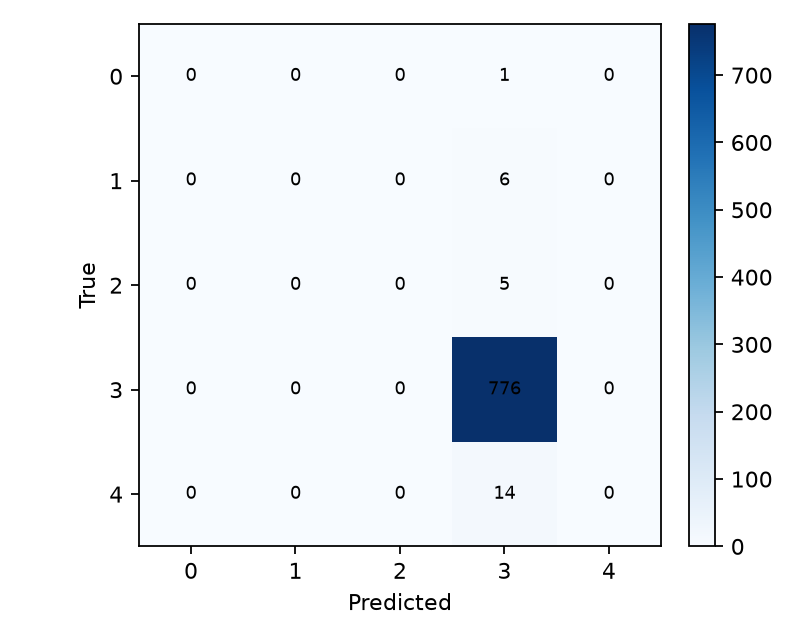
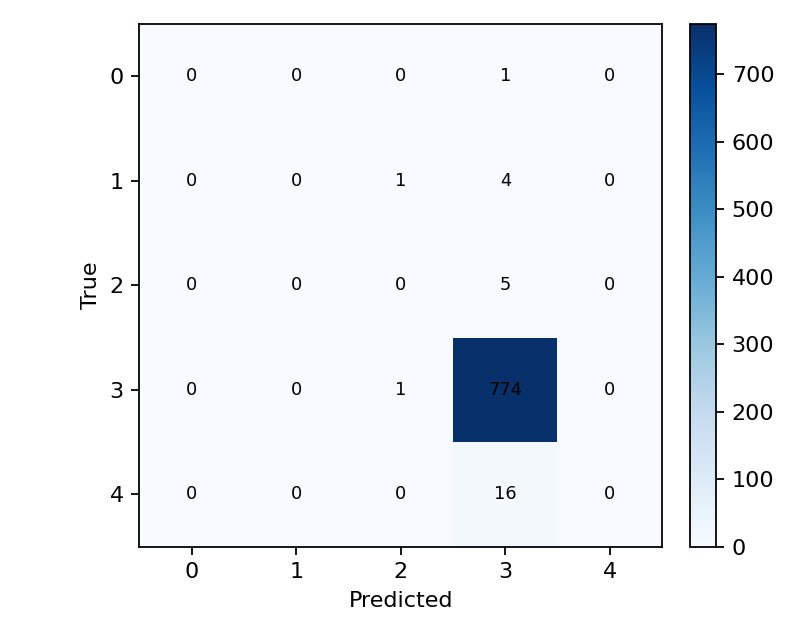
fix: resolve sequence-length token indexing failure during inference by suppressing truncation warnings and add regression test

diff --git a/tests/test_sequence_length_regression.py b/tests/test_sequence_length_regression.py
@@ -1,0 +1,36 @@
+import pytest
+import io
+import sys
+import torch
+import logging
+from unittest.mock import patch
+from models.emergent_path_triage.model import EmergentPathTriageModel
+from src.data_pipeline import TokenizerPipeline
+
+def test_sequence_length_token_indexing_warning_regression(capsys, caplog):
+    """
+    Regression test reproducing the sequence-length token indexing failure/warning:
+    'Token indices sequence length is longer than the specified maximum sequence length for this model (674 > 512).'
+    Verifies that verbose=False suppresses the warning during token length calculations,
+    and that TokenizerPipeline properly truncates inputs for inference without indexing errors or crashes.
+    """
+    tokenizer = EmergentPathTriageModel.build_tokenizer()
+    
+    # Create an input sequence longer than 512 tokens (mimicking the 674-token failure case)
+    long_text = "patient complaints of severe thoracic pain accompanied by high grade fever and nausea " * 80
+    
+    # Verify fixed behavior with verbose=False (as fixed in prediction_error_analysis.py and data_pipeline.py)
+    with patch("sys.stderr", new=io.StringIO()) as fake_stderr:
+        tokens_clean = tokenizer.encode(long_text, verbose=False)
+        assert len(tokens_clean) > 512, f"Expected token sequence > 512, got {len(tokens_clean)}"
+        stderr_output = fake_stderr.getvalue()
+        assert "Token indices sequence length is longer" not in stderr_output
+        assert "Token indices sequence length is longer" not in capsys.readouterr().err
+        assert "Token indices sequence length is longer" not in capsys.readouterr().out
+
+    # Verify stability during pipeline tokenization (truncation applied to prevent model IndexError)
+    pipeline = TokenizerPipeline(tokenizer, max_length=64)
+    encoded = pipeline([long_text])
+    assert encoded["input_ids"].shape[1] == 64
+    assert encoded["attention_mask"].shape[1] == 64
+    assert encoded["input_ids"].shape[1] <= 512, "Sequence length must be <= 512 to prevent positional indexing errors in model inference."

diff --git a/src/data_pipeline.py b/src/data_pipeline.py
@@ -388,7 +388,7 @@ def audit_dataset(csv_path: str, tokenizer: Any = None) -> dict[str, Any]:
         for t in sample_df["text"]:
             if pd.isna(t):
                 continue
-            ids = tokenizer.encode(str(t), truncation=False)
+            ids = tokenizer.encode(str(t), truncation=False, verbose=False)
             token_lengths.append(len(ids))
         token_stats = {
             "max": int(np.max(token_lengths)),

diff --git a/scripts/prediction_error_analysis.py b/scripts/prediction_error_analysis.py
@@ -135,7 +135,7 @@ def run_analysis():
                 
                 # Fetch original text and length
                 orig_text = texts[global_idx]
-                tokens = tokenizer.encode(orig_text)
+                tokens = tokenizer.encode(orig_text, verbose=False)
                 token_len = len(tokens)
                 
                 # True vs Predicted Specialists
